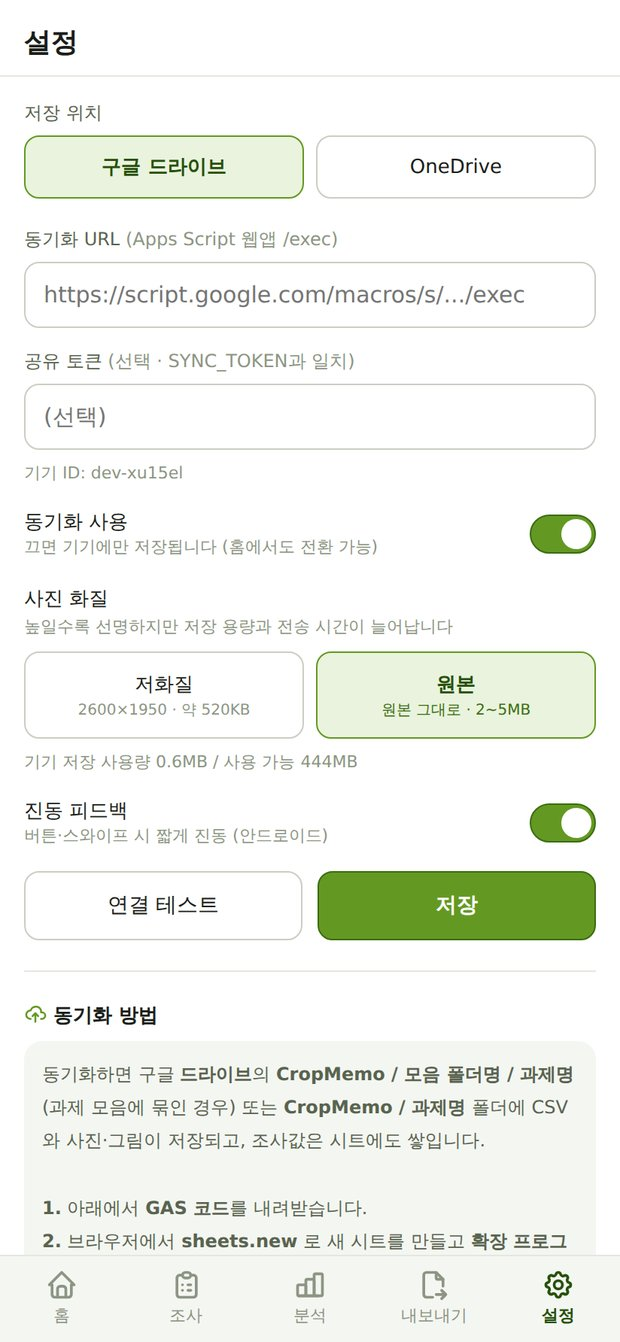
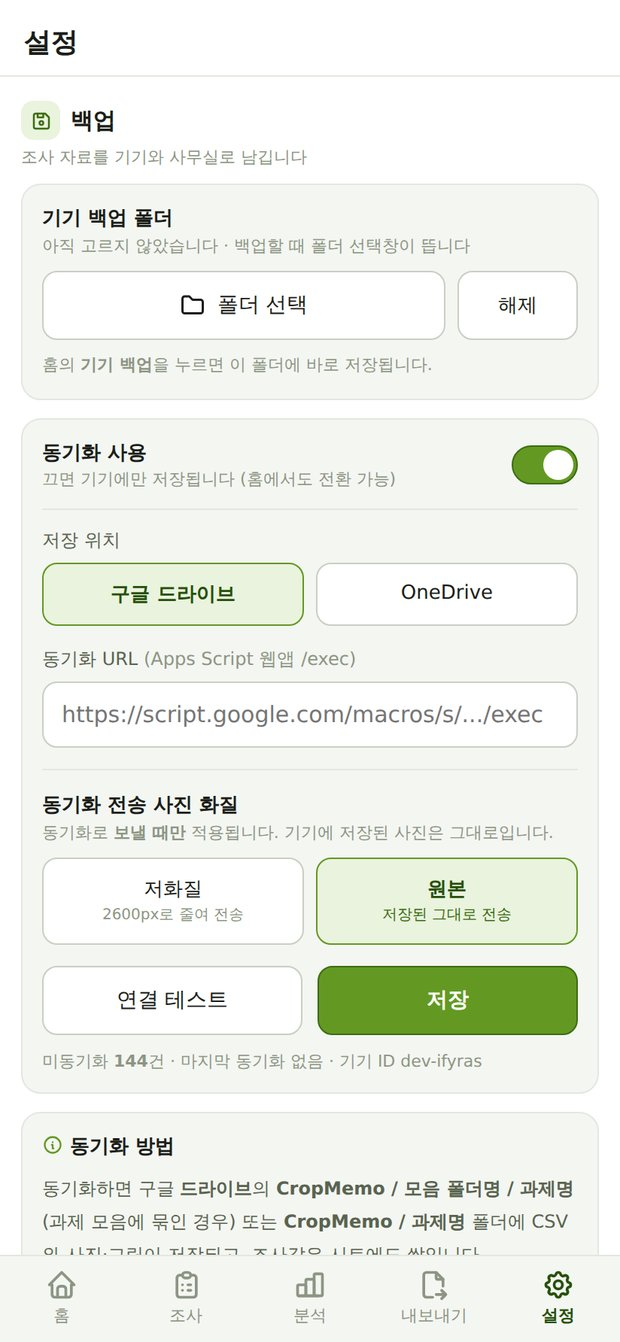
Add files via upload

diff --git a/app.js b/app.js
@@ -377,7 +377,7 @@
     for (var i = 0; i < pending.length; i++) {
       if (!silent) toast('사진 전송 ' + (i + 1) + '/' + pending.length);
       try {
-        var bytes = dataURLtoBytes(pending[i].url);
+        var bytes = dataURLtoBytes(await syncPhotoURL(pending[i].url));
         var ok = await odUpload(token, dir, pending[i].name, new Blob([bytes], { type: 'image/jpeg' }), 'image/jpeg');
         if (ok) { sent[pending[i].name] = 1; await kvSet('imgSyncedOD', sent); done++; }
       } catch (e) { break; }
@@ -419,7 +419,8 @@
         var f = pending[i];
         if (!silent) toast(proj.name + ' 사진 전송 ' + (i + 1) + '/' + pending.length);
         try {
-          var r = await postSync(url, Object.assign({ action: 'driveFile', proj: proj.name, group: gname, fileName: f.name, mime: 'image/jpeg', dataB64: String(f.url).split(',')[1] || '' }, auth));
+          var sendUrl = await syncPhotoURL(f.url);
+          var r = await postSync(url, Object.assign({ action: 'driveFile', proj: proj.name, group: gname, fileName: f.name, mime: 'image/jpeg', dataB64: String(sendUrl).split(',')[1] || '' }, auth));
           if (r && r.ok) { sentMap[f.name] = 1; await kvSet('imgSynced', sentMap); imgCount++; }
         } catch (e) { break; }
       }
@@ -3600,52 +3601,103 @@
   }
 
   // ---------- SETTINGS ----------
+  // 동기화로 보낼 때 쓸 사진 화질 (기본: 저장된 그대로)
+  function syncPhotoQ() { return PHOTO_Q[(S.settings && S.settings.syncPhotoQ) || 'orig'] || PHOTO_Q.orig; }
+  // 데이터URL 사진을 정해진 크기로 줄인다 ('원본'이면 그대로 돌려준다)
+  function shrinkDataURL(url, dim, q) {
+    return new Promise(function (res) {
+      try {
+        var img = new Image();
+        img.onload = function () {
+          var w = img.naturalWidth || img.width, h = img.naturalHeight || img.height;
+          var sc = Math.min(1, dim / Math.max(w, h || 1));
+          if (sc >= 1) { res(url); return; }
+          var c = document.createElement('canvas');
+          c.width = Math.max(1, Math.round(w * sc)); c.height = Math.max(1, Math.round(h * sc));
+          var cx = c.getContext('2d'); cx.imageSmoothingEnabled = true; cx.imageSmoothingQuality = 'high';
+          cx.drawImage(img, 0, 0, c.width, c.height);
+          try { res(c.toDataURL('image/jpeg', q)); } catch (e) { res(url); }
+        };
+        img.onerror = function () { res(url); };
+        img.src = url;
+      } catch (e) { res(url); }
+    });
+  }
+  function syncPhotoURL(url) {
+    var pq = syncPhotoQ();
+    if (pq.orig) return Promise.resolve(url);
+    return shrinkDataURL(url, pq.dim, pq.q);
+  }
+
   function renderSettings() {
     var v = $('view-settings'), st = S.settings, prov = st.provider || 'gas';
+    function sect(icon, title, sub) {
+      return '<div style="display:flex;align-items:center;gap:7px;margin-bottom:4px"><div style="width:26px;height:26px;border-radius:8px;background:var(--green-t);display:flex;align-items:center;justify-content:center;flex:0 0 auto">' + ico(icon, '#3B6D11', 15) + '</div>' +
+        '<div style="font-size:15px;font-weight:700">' + title + '</div></div>' +
+        (sub ? '<div style="font-size:11px;color:var(--text-muted);margin-bottom:10px">' + sub + '</div>' : '<div style="height:8px"></div>');
+    }
+    function card(inner) { return '<div style="background:var(--surface-1);border:0.5px solid var(--border);border-radius:13px;padding:13px 13px;margin-bottom:12px">' + inner + '</div>'; }
+    function qTiles(cls, cur, note) {
+      return '<div style="display:flex;gap:8px;margin-top:9px">' +
+        ['low', 'orig'].map(function (k) {
+          var on = (cur === k), o = PHOTO_Q[k];
+          return '<button class="btn ' + cls + '" data-q="' + k + '" style="flex:1;height:58px;font-size:13px;display:flex;flex-direction:column;align-items:center;justify-content:center;gap:2px;padding:0 4px;background:var(--surface-2)' + (on ? ';background:#EAF3DE;border-color:#639922;color:#27500A;font-weight:600' : '') + '">' + o.name +
+            '<span style="font-size:10px;font-weight:400;line-height:1.3;color:' + (on ? '#3B6D11' : 'var(--text-muted)') + '">' + (note && note[k] ? note[k] : o.sub) + '</span></button>';
+        }).join('') + '</div>';
+    }
+
     v.innerHTML =
       '<div style="padding:16px 16px 10px;border-bottom:0.5px solid var(--border)"><div style="font-size:18px;font-weight:700">설정</div></div>' +
-      '<div style="padding:16px 16px">' +
+      '<div style="padding:16px 14px 26px">' +
+
+      /* ===== 1. 백업 ===== */
+      sect('device-floppy', '백업', '조사 자료를 기기와 사무실로 남깁니다') +
+      card(
+        '<div style="font-size:13px;font-weight:600">기기 백업 폴더</div>' +
+        '<div style="font-size:11px;color:var(--text-muted);margin-top:2px" id="sBkDirNow">확인 중…</div>' +
+        '<div style="display:flex;gap:8px;margin-top:9px">' +
+          '<button class="btn" id="sBkDir" style="flex:1;height:46px;font-size:14px;background:var(--surface-2);display:flex;align-items:center;justify-content:center;gap:7px">' + ico('folder', 'var(--text-primary)', 18) + ' 폴더 선택</button>' +
+          '<button class="btn" id="sBkDirClear" style="flex:0 0 80px;height:46px;font-size:13px;background:var(--surface-2)">해제</button>' +
+        '</div>' +
+        '<div style="font-size:11px;color:var(--text-muted);margin-top:8px;line-height:1.6">홈의 <b>기기 백업</b>을 누르면 이 폴더에 바로 저장됩니다.</div>'
+      ) +
+      card(
+        '<div style="display:flex;align-items:center;gap:10px"><div style="flex:1"><div style="font-size:13px;font-weight:600">동기화 사용</div><div style="font-size:11px;color:var(--text-muted);margin-top:1px">끄면 기기에만 저장됩니다 (홈에서도 전환 가능)</div></div><div class="sw' + (st.syncOn !== false ? ' on' : '') + '" id="sSyncOn"><div class="knob"></div></div></div>' +
+        '<div style="height:1px;background:var(--border);margin:12px 0"></div>' +
         '<div style="font-size:12px;color:var(--text-secondary);font-weight:500;margin-bottom:6px">저장 위치</div>' +
-        '<div style="display:flex;gap:8px;margin-bottom:16px">' +
-          '<button class="btn sProv" data-v="gas" style="flex:1;height:42px;font-size:13px' + (prov === 'gas' ? ';background:#EAF3DE;border-color:#639922;color:#27500A;font-weight:600' : '') + '">구글 드라이브</button>' +
-          '<button class="btn sProv" data-v="od" style="flex:1;height:42px;font-size:13px' + (prov === 'od' ? ';background:#EAF3DE;border-color:#639922;color:#27500A;font-weight:600' : '') + '">OneDrive</button>' +
+        '<div style="display:flex;gap:8px">' +
+          '<button class="btn sProv" data-v="gas" style="flex:1;height:42px;font-size:13px;background:var(--surface-2)' + (prov === 'gas' ? ';background:#EAF3DE;border-color:#639922;color:#27500A;font-weight:600' : '') + '">구글 드라이브</button>' +
+          '<button class="btn sProv" data-v="od" style="flex:1;height:42px;font-size:13px;background:var(--surface-2)' + (prov === 'od' ? ';background:#EAF3DE;border-color:#639922;color:#27500A;font-weight:600' : '') + '">OneDrive</button>' +
         '</div>' +
         (prov === 'gas' ?
-          ('<label style="font-size:12px;color:var(--text-secondary);font-weight:500">동기화 URL <span style="color:var(--text-muted);font-weight:400">(Apps Script 웹앱 /exec)</span></label>' +
-           '<input class="ein" id="sUrl" style="margin-top:6px" placeholder="https://script.google.com/macros/s/.../exec" value="' + esc(st.syncUrl) + '">' +
-           '<label style="font-size:12px;color:var(--text-secondary);font-weight:500;display:block;margin-top:14px">공유 토큰 <span style="color:var(--text-muted);font-weight:400">(선택 · SYNC_TOKEN과 일치)</span></label>' +
-           '<input class="ein" id="sTok" style="margin-top:6px" placeholder="(선택)" value="' + esc(st.token) + '">')
+          ('<label style="font-size:12px;color:var(--text-secondary);font-weight:500;display:block;margin-top:14px">동기화 URL <span style="color:var(--text-muted);font-weight:400">(Apps Script 웹앱 /exec)</span></label>' +
+           '<input class="ein" id="sUrl" style="margin-top:6px" placeholder="https://script.google.com/macros/s/.../exec" value="' + esc(st.syncUrl) + '">')
           :
-          ('<label style="font-size:12px;color:var(--text-secondary);font-weight:500">OneDrive 클라이언트 ID <span style="color:var(--text-muted);font-weight:400">(Azure 앱 등록 후 발급)</span></label>' +
+          ('<label style="font-size:12px;color:var(--text-secondary);font-weight:500;display:block;margin-top:14px">OneDrive 클라이언트 ID <span style="color:var(--text-muted);font-weight:400">(Azure 앱 등록 후 발급)</span></label>' +
            '<input class="ein" id="sOdCid" style="margin-top:6px" placeholder="예) 12ab34cd-56ef-78ab-90cd-1234567890ab" value="' + esc(st.odClientId || '') + '">' +
+           '<label style="font-size:12px;color:var(--text-secondary);font-weight:500;display:block;margin-top:14px">공유 토큰 <span style="color:var(--text-muted);font-weight:400">(선택)</span></label>' +
+           '<input class="ein" id="sTok" style="margin-top:6px" placeholder="(선택)" value="' + esc(st.token) + '">' +
            '<div style="display:flex;gap:8px;margin-top:10px">' +
              '<button class="btn primary" id="sOdLogin" style="flex:1;height:46px;font-size:14px;display:flex;align-items:center;justify-content:center;gap:6px">' + ico('cloud-upload', '#fff', 17) + ' OneDrive 연결</button>' +
-             '<button class="btn" id="sOdOut" style="flex:0 0 96px;height:46px;font-size:13px">연결 해제</button>' +
+             '<button class="btn" id="sOdOut" style="flex:0 0 96px;height:46px;font-size:13px;background:var(--surface-2)">연결 해제</button>' +
            '</div>' +
            '<div id="sOdStat" style="font-size:11px;color:var(--text-muted);margin-top:8px">연결 상태 확인 중…</div>' +
            '<div style="font-size:11px;color:var(--text-muted);margin-top:6px;line-height:1.6">리디렉션 주소(Azure에 등록): <b style="word-break:break-all">' + esc(odRedirect()) + '</b></div>')
         ) +
-        '<div style="font-size:11px;color:var(--text-muted);margin-top:8px">기기 ID: ' + esc(st.deviceId) + '</div>' +
-        '<div style="display:flex;align-items:center;gap:10px;margin-top:16px"><div style="flex:1"><div style="font-size:13px;font-weight:500">동기화 사용</div><div style="font-size:11px;color:var(--text-muted)">끄면 기기에만 저장됩니다 (홈에서도 전환 가능)</div></div><div class="sw' + (st.syncOn !== false ? ' on' : '') + '" id="sSyncOn"><div class="knob"></div></div></div>' +
-        '<div style="margin-top:18px"><div style="font-size:13px;font-weight:500">사진 화질</div>' +
-          '<div style="font-size:11px;color:var(--text-muted);margin-top:2px">높일수록 선명하지만 저장 용량과 전송 시간이 늘어납니다</div>' +
-          '<div style="display:flex;gap:8px;margin-top:9px">' +
-            ['low', 'orig'].map(function (k) {
-              var on = ((st.photoQ || 'orig') === k), o = PHOTO_Q[k];
-              return '<button class="btn sPhotoQ" data-q="' + k + '" style="flex:1;height:58px;font-size:13px;display:flex;flex-direction:column;align-items:center;justify-content:center;gap:2px;padding:0 4px' + (on ? ';background:#EAF3DE;border-color:#639922;color:#27500A;font-weight:600' : '') + '">' + o.name +
-                '<span style="font-size:10px;font-weight:400;line-height:1.3;color:' + (on ? '#3B6D11' : 'var(--text-muted)') + '">' + o.sub + '</span></button>';
-            }).join('') +
-          '</div>' +
-          '<div style="font-size:11px;color:var(--text-muted);margin-top:8px" id="sStore">기기 저장 사용량 확인 중…</div></div>' +
-        '<div style="display:flex;align-items:center;gap:10px;margin-top:16px"><div style="flex:1"><div style="font-size:13px;font-weight:500">진동 피드백</div><div style="font-size:11px;color:var(--text-muted)">버튼·스와이프 시 짧게 진동 (안드로이드)</div></div><div class="sw' + (st.haptic !== false ? ' on' : '') + '" id="sHaptic"><div class="knob"></div></div></div>' +
-        '<div style="display:flex;gap:10px;margin-top:16px">' +
-          '<button class="btn" id="sPing" style="flex:1;height:46px;font-size:14px">연결 테스트</button>' +
+        '<div style="height:1px;background:var(--border);margin:14px 0"></div>' +
+        '<div style="font-size:13px;font-weight:600">동기화 전송 사진 화질</div>' +
+        '<div style="font-size:11px;color:var(--text-muted);margin-top:2px">동기화로 <b>보낼 때만</b> 적용됩니다. 기기에 저장된 사진은 그대로입니다.</div>' +
+        qTiles('sSyncQ', st.syncPhotoQ || 'orig', { low: '2600px로 줄여 전송', orig: '저장된 그대로 전송' }) +
+        '<div style="display:flex;gap:10px;margin-top:14px">' +
+          '<button class="btn" id="sPing" style="flex:1;height:46px;font-size:14px;background:var(--surface-2)">연결 테스트</button>' +
           '<button class="btn primary" id="sSave" style="flex:1;height:46px;font-size:14px">저장</button>' +
         '</div>' +
-        '<div style="height:1px;background:var(--border);margin:20px 0"></div>' +
-        '<div style="font-size:13px;font-weight:600;margin-bottom:8px">' + ico('cloud-upload', '#639922', 15) + ' 동기화 방법</div>' +
+        '<div style="font-size:11px;color:var(--text-muted);margin-top:10px">미동기화 <b data-pending>' + S.pending + '</b>건 · 마지막 동기화 ' + (S.lastSync ? tm(S.lastSync) : '없음') + ' · 기기 ID ' + esc(st.deviceId) + '</div>'
+      ) +
+      card(
+        '<div style="font-size:13px;font-weight:600;margin-bottom:8px">' + ico('info-circle', '#639922', 14) + ' 동기화 방법</div>' +
         (prov === 'gas' ?
-        ('<div class="card" style="font-size:12px;color:var(--text-secondary);line-height:1.85">' +
+        ('<div style="font-size:12px;color:var(--text-secondary);line-height:1.85">' +
           '동기화하면 구글 <b>드라이브</b>의 <b>CropMemo / 모음 폴더명 / 과제명</b>(과제 모음에 묶인 경우) 또는 <b>CropMemo / 과제명</b> 폴더에 CSV와 사진·그림이 저장되고, 조사값은 시트에도 쌓입니다.<br><br>' +
           '<b>1.</b> 아래에서 <b>GAS 코드</b>를 내려받습니다.<br>' +
           '<b>2.</b> 브라우저에서 <b>sheets.new</b> 로 새 시트를 만들고 <b>확장 프로그램 → Apps Script</b> 를 엽니다.<br>' +
@@ -3653,26 +3705,41 @@
           '<b>4.</b> <b>배포 → 새 배포 → 웹 앱</b>, 액세스 권한을 <b>모든 사용자</b>로 두고 배포합니다.<br>' +
           '<b>5.</b> 생성된 <b>/exec 주소</b>를 위 <b>동기화 URL</b> 칸에 붙여넣고 저장 → <b>연결 테스트</b>로 확인합니다.' +
         '</div>' +
-        '<button class="btn" id="sGas" style="width:100%;height:46px;font-size:14px;margin-top:10px;display:flex;align-items:center;justify-content:center;gap:6px">' + ico('file-download', 'var(--text-primary)', 17) + ' GAS 코드 내려받기 (.gs)</button>')
+        '<button class="btn" id="sGas" style="width:100%;height:46px;font-size:14px;margin-top:10px;background:var(--surface-2);display:flex;align-items:center;justify-content:center;gap:6px">' + ico('file-download', 'var(--text-primary)', 17) + ' GAS 코드 내려받기 (.gs)</button>')
         :
-        ('<div class="card" style="font-size:12px;color:var(--text-secondary);line-height:1.85">' +
+        ('<div style="font-size:12px;color:var(--text-secondary);line-height:1.85">' +
           '연결하면 <b>OneDrive</b>의 <b>CropMemo / 모음 폴더명 / 과제명</b>(과제 모음에 묶인 경우) 또는 <b>CropMemo / 과제명</b> 폴더에 CSV와 사진·그림이 저장됩니다. 폴더는 자동으로 만들어집니다.<br><br>' +
           '<b>1.</b> <b>portal.azure.com</b> → <b>Microsoft Entra ID(Azure AD)</b> → <b>앱 등록</b> → <b>새 등록</b>.<br>' +
           '<b>2.</b> 이름은 자유(예: Crop Memo Pro), 계정 유형은 <b>모든 조직 + 개인 Microsoft 계정</b>을 선택합니다.<br>' +
           '<b>3.</b> 리디렉션 URI에서 플랫폼을 <b>단일 페이지 애플리케이션(SPA)</b>으로 고르고, 위에 표시된 <b>리디렉션 주소</b>를 그대로 붙여넣습니다.<br>' +
           '<b>4.</b> 등록 후 <b>API 사용 권한 → Microsoft Graph → 위임된 권한</b>에서 <b>Files.ReadWrite</b>, <b>offline_access</b>를 추가합니다.<br>' +
           '<b>5.</b> 개요 화면의 <b>애플리케이션(클라이언트) ID</b>를 복사해 위 칸에 붙여넣고 <b>OneDrive 연결</b>을 누릅니다.' +
-          '<br><br><span style="color:#8A5A12">앱 등록은 팀에서 <b>한 번만</b> 하면 되고, 팀원은 각자 로그인해 자기 OneDrive에 저장합니다. 회사 계정은 관리자 승인이 한 번 필요할 수 있습니다.</span>' +
-        '</div>')) +
-        '<div style="font-size:11px;color:var(--text-muted);margin-top:8px;line-height:1.6">저장 위치는 언제든 위에서 바꿀 수 있습니다. 동기화를 쓰지 않으려면 홈 화면의 스위치를 꺼두세요.</div>' +
-        '<div style="height:1px;background:var(--border);margin:20px 0"></div>' +
-        '<div style="font-size:13px;font-weight:600;margin-bottom:6px">데이터</div>' +
-        '<div style="font-size:12px;color:var(--text-secondary)">미동기화 <b data-pending>' + S.pending + '</b>건 · 마지막 동기화 ' + (S.lastSync ? tm(S.lastSync) : '없음') + '</div>' +
-        '<button class="btn" id="sGuide" style="width:100%;height:48px;font-size:14px;margin-top:18px;display:flex;align-items:center;justify-content:center;gap:7px">' + ico('bulb', 'var(--text-primary)', 18) + ' 사용 가이드 다시 보기</button>' +
-        '<div style="font-size:11px;color:var(--text-muted);margin-top:8px;line-height:1.6">앱 화면을 순서대로 보여주는 첫 실행 안내입니다. 언제든 다시 볼 수 있습니다.</div>' +
-        '<button class="btn" id="sReset" style="width:100%;height:44px;font-size:13px;margin-top:18px;color:#C0392B;border-color:#E3B4AE">모든 로컬 데이터 삭제 (초기화)</button>' +
-        '<div style="font-size:11px;color:var(--text-muted);margin-top:18px;line-height:1.7">Crop Memo Pro · 오프라인 우선 PWA<br>현장에서 인터넷 없이 저장되고, 연결되면 Google Sheets로 동기화됩니다.</div>' +
+          '<br><br><span style="color:#8A5A12">앱 등록은 팀에서 <b>한 번만</b> 하면 되고, 팀원은 각자 로그인해 자기 OneDrive에 저장합니다.</span>' +
+        '</div>')) ) +
+
+      /* ===== 2. 기기 설정 ===== */
+      '<div style="height:8px"></div>' +
+      sect('device-mobile', '기기 설정', '이 기기에서만 적용됩니다') +
+      card(
+        '<div style="font-size:13px;font-weight:600">야장 저장 사진 화질</div>' +
+        '<div style="font-size:11px;color:var(--text-muted);margin-top:2px">촬영한 사진을 기기에 저장할 때의 화질입니다</div>' +
+        qTiles('sPhotoQ', st.photoQ || 'orig') +
+        '<div style="font-size:11px;color:var(--text-muted);margin-top:8px" id="sStore">기기 저장 사용량 확인 중…</div>'
+      ) +
+      card(
+        '<div style="display:flex;align-items:center;gap:10px"><div style="flex:1"><div style="font-size:13px;font-weight:600">진동 피드백</div><div style="font-size:11px;color:var(--text-muted);margin-top:1px">버튼·스와이프 시 짧게 진동 (안드로이드)</div></div><div class="sw' + (st.haptic !== false ? ' on' : '') + '" id="sHaptic"><div class="knob"></div></div></div>'
+      ) +
+      card(
+        '<button class="btn" id="sGuide" style="width:100%;height:46px;font-size:14px;background:var(--surface-2);display:flex;align-items:center;justify-content:center;gap:7px">' + ico('bulb', 'var(--text-primary)', 18) + ' 사용 가이드 다시 보기</button>' +
+        '<div style="font-size:11px;color:var(--text-muted);margin-top:8px;line-height:1.6">앱 화면을 순서대로 보여주는 첫 실행 안내입니다.</div>'
+      ) +
+
+      /* ===== 3. 초기화 ===== */
+      '<div style="height:8px"></div>' +
+      '<button class="btn" id="sReset" style="width:100%;height:46px;font-size:13.5px;color:#C0392B;border-color:#E3B4AE">모든 로컬 데이터 삭제 (초기화)</button>' +
+      '<div style="font-size:11px;color:var(--text-muted);margin-top:16px;line-height:1.7;text-align:center">Crop Memo Pro · 버전정보 ' + APP_VERSION + '<br>현장에서 인터넷 없이 저장되고, 연결되면 시트·드라이브로 동기화됩니다.</div>' +
       '</div>';
+
     document.querySelectorAll('.sProv').forEach(function (b) { b.onclick = function () { st.provider = b.getAttribute('data-v'); kvSet('settings', st).then(function () { renderSettings(); toast(st.provider === 'od' ? 'OneDrive 저장으로 전환' : '구글 드라이브 저장으로 전환'); }); }; });
     if ($('sOdCid')) $('sOdCid').oninput = function () { st.odClientId = this.value.trim(); };
     if ($('sOdLogin')) $('sOdLogin').onclick = function () { st.odClientId = ($('sOdCid').value || '').trim(); kvSet('settings', st).then(function () { odLogin(); }); };
@@ -3695,7 +3762,10 @@
     };
     $('sSyncOn').onclick = function () { st.syncOn = (st.syncOn === false); this.classList.toggle('on', st.syncOn !== false); kvSet('settings', st).then(function () { toast(st.syncOn !== false ? '동기화 켜짐' : '동기화 꺼짐'); }); };
     document.querySelectorAll('.sPhotoQ').forEach(function (b) {
-      b.onclick = function () { st.photoQ = b.getAttribute('data-q'); kvSet('settings', st).then(function () { renderSettings(); toast('사진 화질 · ' + PHOTO_Q[st.photoQ].name); }); };
+      b.onclick = function () { st.photoQ = b.getAttribute('data-q'); kvSet('settings', st).then(function () { renderSettings(); toast('야장 저장 사진 화질 · ' + PHOTO_Q[st.photoQ].name); }); };
+    });
+    document.querySelectorAll('.sSyncQ').forEach(function (b) {
+      b.onclick = function () { st.syncPhotoQ = b.getAttribute('data-q'); kvSet('settings', st).then(function () { renderSettings(); toast('동기화 전송 사진 화질 · ' + PHOTO_Q[st.syncPhotoQ].name); }); };
     });
     if ($('sStore') && navigator.storage && navigator.storage.estimate) {
       navigator.storage.estimate().then(function (e) {
@@ -3706,7 +3776,27 @@
       }).catch(function () {});
     }
     $('sHaptic').onclick = function () { st.haptic = (st.haptic === false); this.classList.toggle('on', st.haptic !== false); kvSet('settings', st); if (st.haptic !== false) haptic(25); };
-    $('sGuide').onclick = function () { openGuide(); };
+    // 기기 백업 폴더 — 지금 기억하고 있는 폴더 보여주기
+    (async function () {
+      var el = $('sBkDirNow'); if (!el) return;
+      if (!fsaSupported()) { el.textContent = '이 브라우저는 폴더 선택을 지원하지 않아 ZIP 파일로 저장됩니다'; if ($('sBkDir')) { $('sBkDir').style.opacity = '.45'; } return; }
+      var h = null; try { h = await kvGet('backupDir'); } catch (e) {}
+      if (h && (await dirPerm(h, false)) === 'granted' && (await dirAlive(h))) el.textContent = '지금 저장 폴더 · ' + (h.name || '(이름 없음)');
+      else el.textContent = '아직 고르지 않았습니다 · 백업할 때 폴더 선택창이 뜹니다';
+    })();
+    $('sBkDir').onclick = async function () {
+      if (!fsaSupported()) { toast('이 브라우저는 폴더 선택을 지원하지 않습니다'); return; }
+      try {
+        var h = await getBackupDir(true);
+        toast('백업 폴더 · ' + (h.name || '선택됨'));
+        renderSettings();
+      } catch (e) { toast('폴더 선택이 취소되었습니다'); }
+    };
+    $('sBkDirClear').onclick = async function () {
+      try { await kvSet('backupDir', null); } catch (e) {}
+      toast('백업 폴더 선택을 해제했습니다');
+      renderSettings();
+    };
     $('sReset').onclick = async function () {
       if (!(await askConfirm('모든 로컬 데이터를 삭제할까요?\n되돌릴 수 없습니다.', { title: '초기화', danger: true, ok: '모두 삭제' }))) return;
       indexedDB.deleteDatabase(DB_NAME);
@@ -3733,9 +3823,9 @@
     cMapWrap: { x: 3.4,  y: 8.8,  w: 93.2, h: 30.8 },
     eProjAll: { x: 3.9,  y: 12.2, w: 92.2, h: 5.8 },
     eAllZip:  { x: 3.9,  y: 44.1, w: 92.2, h: 5.8 },
-    sUrl:     { x: 3.9,  y: 19.5, w: 92.2, h: 4.9 },
-    sSyncOn:  { x: 83.4, y: 37.6, w: 13,   h: 4.2 },
-    sPhotoQ:  { x: 3.4,  y: 48.2, w: 93.2, h: 7.1 }
+    sBkDir:   { x: 6.3,  y: 19.9, w: 87.4, h: 5.8 },
+    sUrl:     { x: 6.3,  y: 50.4, w: 87.4, h: 5.5 },
+    sSyncQ:   { x: 6.3,  y: 63.6, w: 87.4, h: 7.1 }
   };
   function gc(key, n, side, label) { var b = GBOX[key]; return { x: b.x, y: b.y, w: b.w, h: b.h, n: n, side: side || 'left', label: label || '' }; }
 
@@ -3792,10 +3882,10 @@
         body: '<b>①</b> 지금 보고 있는 과제만 — 파일 한 묶음(CSV·사진) · CSV만 · 사진만 · 사진 골라서<br><b>②</b> 모든 과제 — 파일 한 묶음 · CSV만 · 사진만',
         calls: [gc('eProjAll', 1), gc('eAllZip', 2)] },
 
-      { img: '15-settings', chap: '설정', title: '동기화 연결 · 사진 화질',
-        body: '<b>①</b> Apps Script <b>URL</b>을 넣고 저장하면 온라인일 때 구글 시트·드라이브로 자동 전송됩니다. 오프라인에서는 기기에 쌓였다가 연결되는 순간 한 번에 올라갑니다.<br><b>②</b> <b>사진 화질</b> — 기본은 <b>원본</b>(재압축 없음)이고, 용량을 줄이려면 <b>저화질</b>을 고르세요.',
-        note: '설정 맨 아래 <사용 가이드 다시 보기>로 이 안내를 언제든 다시 볼 수 있습니다.',
-        calls: [gc('sUrl', 1), gc('sPhotoQ', 2)] },
+      { img: '15-settings', chap: '설정', title: '백업 · 기기 설정',
+        body: '설정은 <b>백업</b>(기기 백업 폴더 · 동기화)과 <b>기기 설정</b>(사진 화질 · 진동 · 가이드 다시 보기)으로 나뉩니다.<br><b>①</b> 기기 백업 폴더를 미리 골라 두면 홈에서 누르는 즉시 저장됩니다.<br><b>②</b> Apps Script <b>URL</b>을 넣고 저장하면 온라인일 때 자동 전송됩니다.<br><b>③</b> <b>동기화 전송 사진 화질</b> — 보낼 때만 줄입니다(기기 저장본은 그대로).',
+        note: '기기에 저장할 사진 화질과 사용 가이드 다시 보기는 아래 <기기 설정>에 있습니다.',
+        calls: [gc('sBkDir', 1), gc('sUrl', 2), gc('sSyncQ', 3)] },
 
       { img: '16-backup', chap: '기기 백업', title: '내 기기에 자료 백업 하기',
         body: '홈의 <b>기기 백업</b>을 누르면 백업 폴더 선택 후 백업이 진행 됩니다. 전체 과제의 모든 데이터, 사진 자료가 저장됩니다.',

diff --git a/README.md b/README.md
@@ -78,8 +78,22 @@ python3 -m http.server 8000
 - 캡처 이미지는 `guide/` 폴더에 있고 가이드를 열 때만 불러옵니다. 한 번 본 뒤에는 오프라인에서도 보입니다.
 - 화면을 크게 바꾼 뒤에는 캡처도 다시 찍어 `guide/` 의 같은 파일명으로 바꿔 넣으면 됩니다.
 
-## 5-1) 사진 화질 (설정 탭)
-**설정 탭 → 사진 화질**에서 두 단계로 고릅니다. 기본은 **원본**입니다.
+## 5-1) 설정 화면 구성
+설정 탭은 세 덩어리입니다.
+
+| 구분 | 들어 있는 것 |
+| --- | --- |
+| **백업** | 기기 백업 폴더 · 동기화(사용 여부 · 저장 위치 · URL · **동기화 전송 사진 화질** · 연결 테스트/저장 · 동기화 방법) |
+| **기기 설정** | **야장 저장 사진 화질** · 진동 피드백 · 사용 가이드 다시 보기 |
+| — | 모든 로컬 데이터 삭제 (초기화) |
+
+- **공유 토큰** 칸은 OneDrive를 골랐을 때만 나옵니다(구글 드라이브에서는 숨김).
+- 사진 화질은 **두 곳**에 있고 서로 다릅니다.
+  - **야장 저장 사진 화질**(기기 설정) — 촬영한 사진을 기기에 저장할 때의 화질
+  - **동기화 전송 사진 화질**(백업) — 동기화로 **보낼 때만** 줄여 보냅니다. 기기에 저장된 사진은 그대로이고, 기기 백업에도 영향이 없습니다. 모바일 데이터로 보낼 때 `저화질`을 고르면 전송량이 크게 줄어듭니다(예: 904KB → 531KB).
+
+### 사진 화질 단계
+두 설정 모두 같은 두 단계를 씁니다. 기본은 **원본**입니다.
 
 | 단계 | 저장 방식 | 사진 1장 | 기기 저장(내부) |
 | --- | --- | --- | --- |
@@ -135,6 +149,8 @@ CropMemo/
 > 파일 쓰기까지 막히는 기기에서는 모아둔 자료를 버리지 않고 자동으로 ZIP 저장으로 넘어갑니다.
 
 **같은 사진은 건너뜁니다** — 폴더에 저장할 때, 사진은 **파일명과 크기가 같으면 다시 쓰지 않습니다.** 같은 폴더로 반복 백업해도 사진이 다시 복사되지 않아 빠르고, 사진을 새로 찍거나 그림을 덧그려 내용이 바뀐 것만 갱신됩니다. 완료 안내에 `같은 사진 N장 건너뜀` 으로 표시됩니다. (CSV는 내용이 바뀌므로 항상 덮어씁니다. ZIP 저장은 매번 새 압축 파일이라 해당 없습니다.)
+
+**폴더 미리 정해두기** — 설정 탭 아래 **`기기 백업 폴더`** 에서 백업 폴더를 미리 고를 수 있습니다. 지금 기억하고 있는 폴더 이름이 함께 표시되고, `해제`를 누르면 다음 백업 때 다시 고르게 됩니다. 폴더 선택을 지원하지 않는 브라우저에서는 그 사실을 안내합니다.
 
 **저장 폴더가 없어진 경우** — 기억해 둔 폴더를 기기에서 지웠으면, 백업을 누를 때 그 폴더가 아직 있는지 먼저 확인하고 없으면 **폴더 선택창을 다시 띄웁니다.** (예전에는 `InvalidStateError` 안내와 함께 ZIP 다운로드로 넘어갔습니다.)
 
